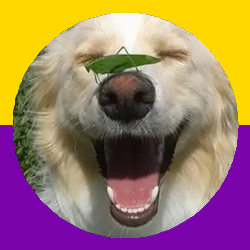
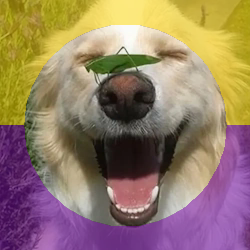
fix: ring bug

diff --git a/flaggen/src/codegen.rs b/flaggen/src/codegen.rs
@@ -7,7 +7,11 @@ pub fn generate_flag_variants(flags: &[Flag]) -> impl Iterator<Item = TokenStrea
     flags.iter().map(|flag| {
         let name = &flag.name;
         let lower_name = name.to_string().to_lowercase();
-        let doc = format!(r#" <img src="https://raw.githubusercontent.com/isitreallyalive/pride-overlay/refs/heads/v2/flags/{lower_name}.svg" alt="{lower_name} flag" height="125px">"#);
+        let path = match flag.definition {
+            FlagDefinition::Special(_, _) => "",
+            _ => "/readme"
+        };
+        let doc = format!(r#" <img src="https://raw.githubusercontent.com/isitreallyalive/pride-overlay/refs/heads/main/flags{path}/{lower_name}.svg" alt="{lower_name} flag" height="125px">"#);
         quote! {
             #[doc = #doc]
             #name
@@ -117,4 +121,14 @@ pub fn create_colour_const_name(flag_name: &syn::Ident) -> syn::Ident {
 /// Creates a constant name for flag data.
 pub fn create_data_const_name(flag_name: &syn::Ident) -> syn::Ident {
     format_ident!("{}_DATA", flag_name.to_string().to_uppercase())
+}
+
+/// Generates all flag variants for the all() method.
+pub fn generate_all_flags(flags: &[Flag]) -> impl Iterator<Item = TokenStream> + '_ {
+    flags.iter().map(|flag| {
+        let name = &flag.name;
+        quote! {
+            Flag::#name
+        }
+    })
 }

diff --git a/src/lib.rs b/src/lib.rs
@@ -5,7 +5,7 @@
 //!
 //! |       Input        |         [Overlay::apply]         |          [Ring::apply]          |
 //! |:------------------:|:--------------------------------:|:-------------------------------:|
-//! | ![](https://raw.githubusercontent.com/isitreallyalive/pride-overlay/refs/heads/v2/examples/input.webp) | ![](https://raw.githubusercontent.com/isitreallyalive/pride-overlay/refs/heads/v2/examples/out/overlay/pansexual.webp) | ![](https://raw.githubusercontent.com/isitreallyalive/pride-overlay/refs/heads/v2/examples/out/ring/transgender.webp) |
+//! | ![](https://raw.githubusercontent.com/isitreallyalive/pride-overlay/refs/heads/main/examples/input.webp) | ![](https://raw.githubusercontent.com/isitreallyalive/pride-overlay/refs/heads/main/examples/out/overlay/intersex.webp) | ![](https://raw.githubusercontent.com/isitreallyalive/pride-overlay/refs/heads/main/examples/out/ring/transgender.webp) |
 //!
 //! # High level API
 //! Load an image with the [`image`](https://docs.rs/image) crate, and overlay [Flag::Transgender] with 40% opacity.

diff --git a/flaggen/src/lib.rs b/flaggen/src/lib.rs
@@ -16,6 +16,7 @@ pub fn generate_flags(input: TokenStream) -> TokenStream {
     let flag_constants = generate_flag_constants(&flags);
     let flag_data_matches = generate_flag_data_matches(&flags);
     let flag_name_matches = generate_flag_name_matches(&flags);
+    let all_flags = generate_all_flags(&flags);
 
     let generated = quote! {
         /// Represents various pride flags.
@@ -43,6 +44,12 @@ pub fn generate_flags(input: TokenStream) -> TokenStream {
                     #(#flag_name_matches),*,
                     Flag::Custom(_) => "Custom",
                 }
+            }
+
+            pub const fn all() -> &'static [Flag] {
+                &[
+                    #(#all_flags),*
+                ]
             }
         }
     };

diff --git a/src/ring.rs b/src/ring.rs
@@ -24,10 +24,9 @@ impl Effect for Ring {
         let mut ring_overlay = create_flag_overlay(ring_flag, width, height, self.opacity);
 
         let center = ((width / 2) as i32, (height / 2) as i32);
-        let offset = self.thickness.min(10) * 8;
-        let inner_radius = (width / 2).saturating_sub(offset) as i32;
+        let radius = (width / 2).saturating_sub(self.thickness) as i32;
 
-        draw_smooth_circle(&mut ring_overlay, center, inner_radius, Rgba([0, 0, 0, 0]));
+        draw_smooth_circle(&mut ring_overlay, center, radius, Rgba([0, 0, 0, 0]));
         overlay(image, &ring_overlay, 0, 0);
     }
 }

diff --git a/src/flags.rs b/src/flags.rs
@@ -6,8 +6,8 @@ pub enum FlagData {
 }
 
 flaggen::generate_flags! {
+    Intersex: "intersex.svg" (255, 216, 0), (121, 2, 170)
+    Pansexual: (255, 33, 140), (255, 216, 0), (33, 177, 255)
     Rainbow: (229, 0, 0), (255, 141, 0), (255, 238, 0), (2, 129, 33), (0, 76, 255), (119, 0, 136)
     Transgender: (91, 206, 250), (245, 169, 184), (255, 255, 255), (245, 169, 184), (91, 206, 250)
-
-    Intersex: "intersex.svg" (255, 216, 0), (121, 2, 170)
 }

diff --git a/examples/overlay.rs b/examples/overlay.rs
@@ -1,10 +1,8 @@
 use image::ImageResult;
 use pride_overlay::prelude::*;
 
-const FLAGS: &[Flag] = &[Flag::Rainbow, Flag::Transgender, Flag::Intersex];
-
 fn main() -> ImageResult<()> {
-    for flag in FLAGS.to_owned() {
+    for flag in Flag::all().to_owned() {
         let mut image = image::open("examples/input.webp")?;
         let effect = Overlay::builder(flag)
             .maybe_opacity(Opacity::new(0.4))

diff --git a/examples/ring.rs b/examples/ring.rs
@@ -1,10 +1,8 @@
 use image::ImageResult;
 use pride_overlay::prelude::*;
 
-const FLAGS: &[Flag] = &[Flag::Rainbow, Flag::Transgender, Flag::Intersex];
-
 fn main() -> ImageResult<()> {
-    for flag in FLAGS.to_owned() {
+    for flag in Flag::all().to_owned() {
         let mut image = image::open("examples/input.webp")?;
         let effect = Ring::builder(flag).build();
         effect.apply(&mut image);

diff --git a/readme.md b/readme.md
@@ -1,8 +1,8 @@
 # pride-overlay
 
-|          input           |      [overlay](examples/overlay.rs)      |        [ring](examples/ring.rs)         |
-| :----------------------: | :--------------------------------------: | :-------------------------------------: |
-| ![](examples/input.webp) | ![](examples/out/overlay/pansexual.webp) | ![](examples/out/ring/transgender.webp) |
+|          input           |     [overlay](examples/overlay.rs)      |        [ring](examples/ring.rs)         |
+| :----------------------: | :-------------------------------------: | :-------------------------------------: |
+| ![](https://raw.githubusercontent.com/isitreallyalive/pride-overlay/refs/heads/main/examples/input.webp) | ![](https://raw.githubusercontent.com/isitreallyalive/pride-overlay/refs/heads/main/examples/out/overlay/intersex.webp) | ![](https://raw.githubusercontent.com/isitreallyalive/pride-overlay/refs/heads/main/examples/out/ring/pansexual.webp) |
 
 ![Crates.io Version](https://img.shields.io/crates/v/pride-overlay?style=for-the-badge&labelColor=%23313244&color=%23e64553)
 ![Crates.io Downloads](https://img.shields.io/crates/d/pride-overlay?style=for-the-badge&labelColor=%23313244&color=%23e64553&label=Downloads)
@@ -13,11 +13,12 @@
 
 ### supported flags
 
-|    flag     |                   image                    |
-| :---------: | :----------------------------------------: |
-|   rainbow   |     ![rainbow flag](flags/rainbow.svg)     |
-| transgender | ![transgender flag](flags/transgender.svg) |
-|  intersex   |    ![intersex flag](flags/intersex.svg)    |
+|    flag     |                                                         image                                                          |
+| :---------: | :--------------------------------------------------------------------------------------------------------------------: |
+|  intersex   |       ![intersex flag](https://raw.githubusercontent.com/isitreallyalive/pride-overlay/refs/heads/main/flags/intersex.svg)        |
+|  pansexual  |   ![pansexual flag](https://raw.githubusercontent.com/isitreallyalive/pride-overlay/refs/heads/main/flags/readme/pansexual.svg)   |
+|   rainbow   |     ![rainbow flag](https://raw.githubusercontent.com/isitreallyalive/pride-overlay/refs/heads/main/flags/readme/rainbow.svg)     |
+| transgender | ![transgender flag](https://raw.githubusercontent.com/isitreallyalive/pride-overlay/refs/heads/main/flags/readme/transgender.svg) |
 
 
 is there a flag you want to see added? [open an issue](https://github.com/isitreallyalive/pride-overlay/issues/new?template=flag-request.md)
